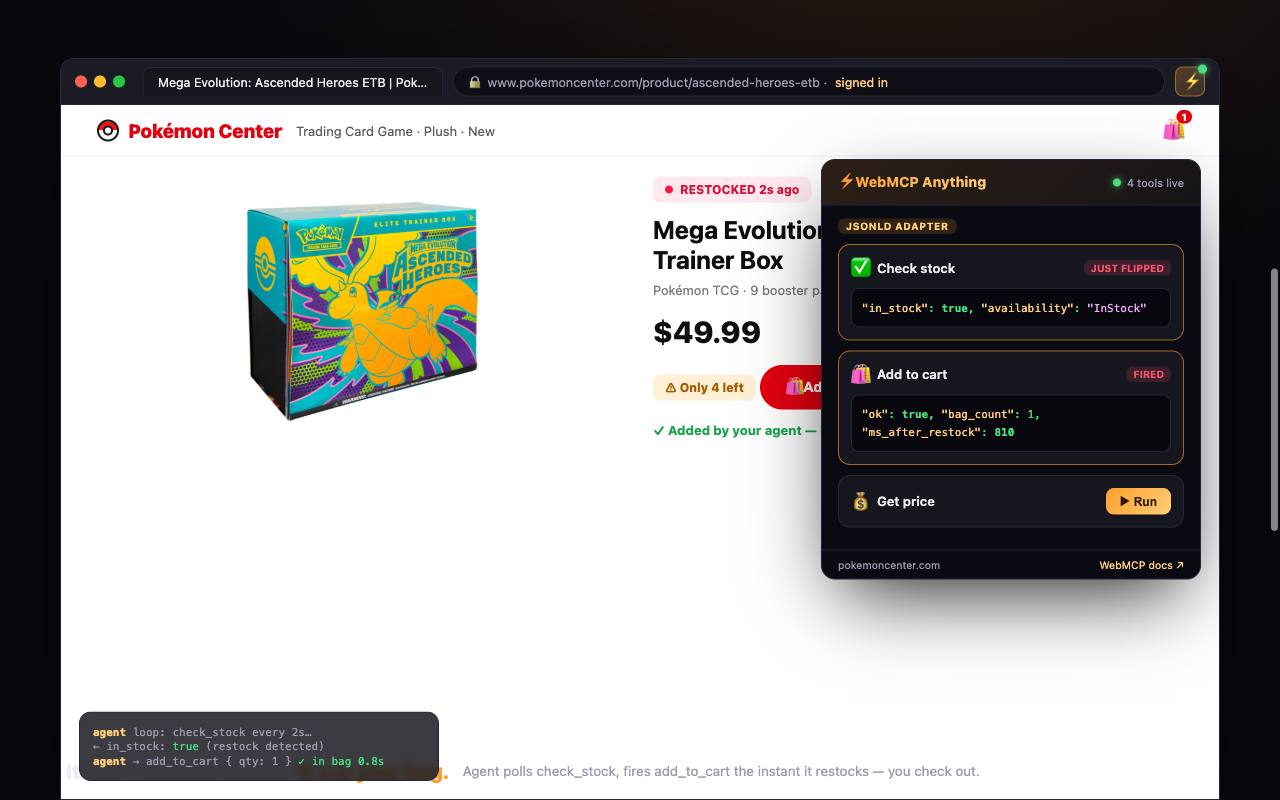
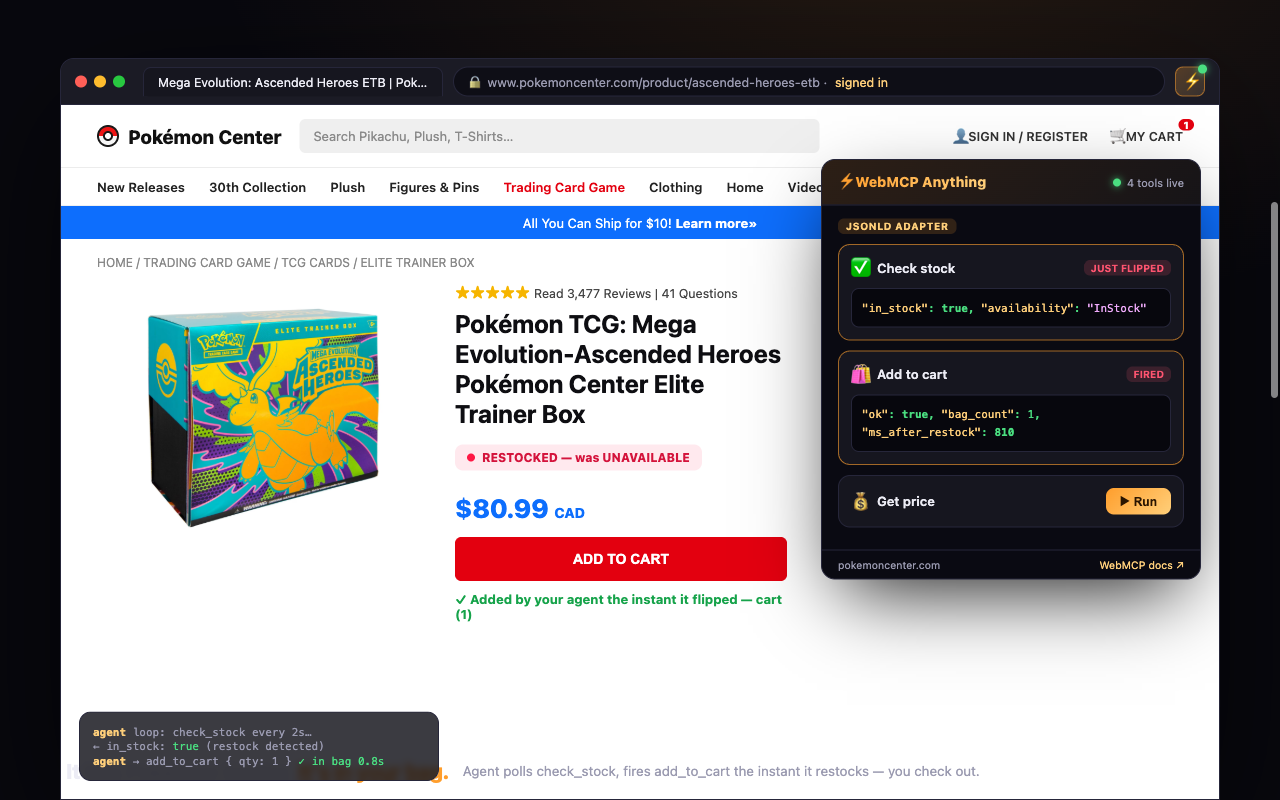
feat(store): real store chrome — Pokémon Center, Walmart, Sam's Club
Rebuilt the three store scenes to faithfully match the actual retailer
pages the owner supplied, with the real product/store pairings:

  2 Pokémon Center — Ascended Heroes ETB, $80.99 CAD, real header (Poké
    Ball + nav + "$10 ship" banner + breadcrumb + 3,477 reviews). Hook:
    page was UNAVAILABLE → agent catches the restock → ADD TO CART.
  3 Walmart — Scarlet & Violet 151 Ultra-Premium Collection, $120.99,
    real chrome (spark, location pill, Departments/Services nav,
    breadcrumb, Pro Seller) → BACK IN STOCK → add_to_cart fired.
  4 Sam's Club — Prismatic Evolutions ETB, real chrome (S mark, location
    pill, departments strip, "In 50+ people's carts", Shipping/Pickup/
    Delivery tiles) → agent in cart first.

Real product photos (owner-supplied AVIF/PNG → img/). Popup still shows
only real tools (check_stock/add_to_cart/get_price); titles/CTAs cleared
of the popup. Hero re-themed to TCG. Dropped sneaker + GPU scenes.

diff --git a/launch/store-assets/scenes.html b/launch/store-assets/scenes.html
@@ -58,6 +58,7 @@
   .pg { padding:26px 36px; color:#16161a; height:100%; background:#fff; }
   .pg .crumb { color:#8a8a8a; font-size:12px; margin-bottom:14px; }
   .pg .row { display:flex; gap:26px; }
+  .pg .row.rowc { padding-right: 396px; } /* clear the popup so titles/CTA stay visible */
   .pg .col { flex:1; }
   .pg h1 { font-size:25px; margin:0 0 8px; color:#0e0e12; line-height:1.2; }
   .pg .by { color:#777; font-size:13px; margin-bottom:16px; }
@@ -77,6 +78,22 @@
   .pc-bar .cart .cb { background:#e3000f; }
   .btn-bag { background:#e3000f; color:#fff; border:none; border-radius:999px; padding:13px 26px; font-weight:800; font-size:14px; margin-top:16px; display:inline-flex; align-items:center; gap:8px; }
   .added { color:#16a34a; font-weight:700; font-size:13px; margin-top:10px; display:flex; align-items:center; gap:6px; }
+  /* Walmart */
+  .wm-bar { background:#0071dc; } .wm-bar .logo{ color:#fff; } .wm-bar .spark{ color:#ffc220; font-size:24px; }
+  .wm-bar .cart{ color:#fff; } .wm-bar .cart .cb{ background:#ffc220; color:#041e42; }
+  .btn-wm { background:#0071dc; color:#fff; border:none; border-radius:999px; padding:13px 30px; font-weight:700; font-size:14px; margin-top:14px; }
+  /* Sam's Club */
+  .sc-bar { background:#0071ce; } .sc-bar .logo{ color:#fff; } .sc-bar .cart{ color:#fff; } .sc-bar .cart .cb{ background:#ffc220; color:#003b6f; }
+  .sc-bar .reorder{ color:#fff; font-size:12.5px; opacity:.95; display:flex; gap:18px; }
+  .smark { width:30px;height:30px;border-radius:7px; background:#fff; color:#0071ce; font-weight:900; font-style:italic; display:grid; place-items:center; font-size:20px; }
+  .sc-strip { display:flex; gap:20px; background:#e9f3fb; color:#0a3d62; font-size:12.5px; padding:8px 36px; margin:0 -36px 16px; font-weight:600; }
+  .btn-sc { background:#0071ce; color:#fff; border:none; border-radius:999px; padding:13px 30px; font-weight:800; font-size:14px; margin-top:6px; }
+  .incarts { color:#0071ce; font-weight:700; font-size:13px; margin-bottom:8px; }
+  .fulfil { display:flex; gap:9px; margin:13px 0 4px; }
+  .ftile { flex:1; border:1px solid #ddd; border-radius:10px; padding:9px 6px; text-align:center; font-size:11px; color:#555; }
+  .ftile.sel { border-color:#0071ce; border-width:2px; color:#0a3d62; }
+  .ftile b{ display:block; color:#111; font-size:12px; margin-bottom:2px; }
+  .rate { color:#777; font-size:12.5px; }
   .pg .price { font-size:30px; font-weight:800; color:#0e0e12; }
   .badge { display:inline-flex; align-items:center; gap:7px; font-weight:800; font-size:12px; padding:6px 12px; border-radius:8px; margin-bottom:12px; }
   .b-live { background:#ffe9ee; color:#d4143c; } .b-live .pulse{width:8px;height:8px;border-radius:50%;background:#ff1744;box-shadow:0 0 0 0 rgba(255,23,68,.6)}
@@ -134,22 +151,28 @@
       <div class="ext-pin">⚡<span class="ping"></span></div>
     </div>
     <div class="page">
-      <div class="pg">
-        <div class="store-bar pc-bar">
-          <div class="logo"><span class="pokeball"></span>Pokémon Center</div>
-          <div class="nav">Trading Card Game · Plush · New</div>
-          <div class="cart">🛍<span class="cb">1</span></div>
+      <div class="pg" style="padding-top:0">
+        <div style="display:flex;align-items:center;gap:18px;padding:14px 36px;margin:0 -36px;border-bottom:1px solid #ececec;background:#fff">
+          <div style="display:flex;align-items:center;gap:9px;font-weight:800;font-size:19px;color:#111"><span class="pokeball"></span>Pokémon Center</div>
+          <div style="flex:1;max-width:520px;background:#efefef;border-radius:6px;height:34px;display:flex;align-items:center;padding:0 14px;color:#8a8a8a;font-size:13px">Search Pikachu, Plush, T-Shirts…</div>
+          <div style="margin-left:auto;display:flex;align-items:center;gap:22px;color:#333;font-size:12.5px;font-weight:600">
+            <span>👤 SIGN IN / REGISTER</span><span style="position:relative">🛒 MY CART<span style="position:absolute;top:-9px;right:-11px;background:#e3000f;color:#fff;font-size:10px;font-weight:800;border-radius:999px;padding:0 5px">1</span></span>
+          </div>
         </div>
-        <div class="row">
-          <div class="col"><img class="imgp" src="img/pokemon.png" alt="Pokémon ETB" /></div>
+        <div style="display:flex;gap:24px;font-size:13px;font-weight:600;color:#222;padding:11px 36px;margin:0 -36px;border-bottom:1px solid #f0f0f0">
+          <span>New Releases</span><span>30th Collection</span><span>Plush</span><span>Figures &amp; Pins</span><span style="color:#e3000f">Trading Card Game</span><span>Clothing</span><span>Home</span><span>Video Game</span><span>LEGO® Pokémon™</span>
+        </div>
+        <div style="background:#0d6efd;color:#fff;text-align:center;font-size:13px;padding:9px;margin:0 -36px 16px">All You Can Ship for $10! <b>Learn more»</b></div>
+        <div style="color:#888;font-size:12px;margin-bottom:14px">HOME / TRADING CARD GAME / TCG CARDS / ELITE TRAINER BOX</div>
+        <div class="row rowc">
+          <div class="col"><img class="imgp" src="img/pokemon.png" alt="Ascended Heroes ETB" /></div>
           <div class="col">
-            <div class="badge b-live"><span class="pulse"></span>RESTOCKED 2s ago</div>
-            <h1>Mega Evolution: Ascended Heroes Elite Trainer Box</h1>
-            <div class="by">Pokémon TCG · 9 booster packs + promo · Limit 1 per customer</div>
-            <div class="price">$49.99</div>
-            <div class="badge b-low" style="margin-top:14px">⚠ Only 4 left</div>
-            <button class="btn-bag">🛍 Add to Bag</button>
-            <div class="added">✓ Added by your agent — bag (1) · ready to check out</div>
+            <div style="color:#f6b500;font-size:15px">★★★★★ <span style="color:#444;font-size:12.5px">Read 3,477 Reviews | 41 Questions</span></div>
+            <h1 style="margin-top:8px">Pokémon TCG: Mega Evolution-Ascended Heroes Pokémon Center Elite Trainer Box</h1>
+            <div class="badge b-live" style="margin-top:8px"><span class="pulse"></span>RESTOCKED — was UNAVAILABLE</div>
+            <div style="color:#0d6efd;font-weight:800;font-size:26px;margin-top:10px">$80.99 <span style="font-size:14px">CAD</span></div>
+            <button style="background:#e3000f;color:#fff;border:none;border-radius:6px;padding:14px 0;font-weight:800;font-size:14px;width:100%;max-width:340px;margin-top:14px;cursor:pointer">ADD TO CART</button>
+            <div class="added">✓ Added by your agent the instant it flipped — cart (1)</div>
           </div>
         </div>
       </div>
@@ -179,26 +202,38 @@
   <div class="cap"><div class="big">It hits Pokémon Center. <span class="am">It's in your bag.</span></div><div class="sm">Agent polls check_stock, fires add_to_cart the instant it restocks — you check out.</div></div>
 </div>
 
-<!-- ============ 3) GPU / CONSOLE RESTOCK (breadth) ============ -->
-<div class="shot" id="s4">
+<!-- ============ 3) WALMART ============ -->
+<div class="shot" id="s3">
   <div class="browser">
     <div class="chrome">
       <div class="dots"><i class="r"></i><i class="y"></i><i class="g"></i></div>
-      <div class="tab">RTX 5090 Founders — Restock</div>
-      <div class="omni"><span class="lock">🔒</span> shop.example/rtx-5090-founders · <span class="li">signed in</span> · <span style="color:var(--red)">blocks bots</span></div>
+      <div class="tab">Prismatic Evolutions Elite Trainer Box - Walmart.com</div>
+      <div class="omni"><span class="lock">🔒</span> www.walmart.com/ip/pokemon-prismatic-evolutions-etb · <span class="li">signed in</span></div>
       <div class="ext-pin">⚡<span class="ping"></span></div>
     </div>
     <div class="page">
-      <div class="pg">
-        <div class="crumb">Components / Graphics Cards</div>
-        <div class="row">
-          <div class="col"><div class="img" style="background:linear-gradient(135deg,#1f2937,#0b3d2e); color:#7CFFb5">🖥</div></div>
+      <div class="pg" style="padding-top:0">
+        <div style="display:flex;align-items:center;gap:14px;padding:11px 24px;margin:0 -36px;background:#0071dc">
+          <span style="color:#ffc220;font-size:26px;font-weight:900">✸</span>
+          <div style="background:#004f9a;border-radius:22px;padding:5px 14px;color:#fff;font-size:11px;line-height:1.2;max-width:230px"><b>How do you want your items?</b><span style="display:block;opacity:.85;font-size:10.5px">Edmonton, T5T 9Z0 · W. EDMONTON…</span></div>
+          <div style="flex:1;background:#fff;border-radius:22px;height:36px;display:flex;align-items:center;padding:0 16px;color:#8a8a8a;font-size:13px">Search everything at Walmart online and in store</div>
+          <div style="display:flex;align-items:center;gap:18px;color:#fff;font-size:12px">
+            <span>🌐 English</span><span>♡ Reorder</span><span>👤 Sign In</span>
+            <span style="position:relative">🛒 $0.00<span style="position:absolute;top:-9px;right:-9px;background:#ffc220;color:#041e42;font-size:10px;font-weight:800;border-radius:999px;padding:0 5px">1</span></span>
+          </div>
+        </div>
+        <div style="display:flex;gap:22px;font-size:13px;color:#16161a;padding:10px 36px;margin:0 -36px 16px;background:#e8f1fc;font-weight:600"><span>☰ Departments</span><span>Services</span><span style="color:#999">|</span><span>Flyer</span><span>Grocery</span><span>Get It Fast</span><span>Everyday Low Prices</span><span>Electronics</span><span style="margin-left:auto">More ⌄</span></div>
+        <div style="color:#0071dc;font-size:12.5px;margin-bottom:14px">Toys / Trading Cards / Pokemon Cards / Pokemon Booster &amp; Blister Packs</div>
+        <div class="row rowc">
+          <div class="col"><img class="imgp" src="img/walmart.png" alt="151 Ultra-Premium Collection" /></div>
           <div class="col">
-            <div class="badge b-live"><span class="pulse"></span>BACK IN STOCK</div>
-            <h1>GeForce RTX 5090 Founders Edition</h1>
-            <div class="by">Sold out everywhere · bot-protected checkout</div>
-            <div class="price">$1,999</div>
-            <div class="badge b-low" style="margin-top:14px">⚠ Selling out — 7 left</div>
+            <div style="color:#666;font-size:13px">Pokémon &nbsp; <span style="color:#f6b500">★★★★★</span> <span style="color:#0071dc">4.6 (657)</span></div>
+            <h1 style="margin-top:6px">Pokémon TCG: Scarlet &amp; Violet—151 Ultra-Premium Collection</h1>
+            <div class="badge b-live" style="margin-top:8px"><span class="pulse"></span>BACK IN STOCK</div>
+            <div style="font-size:28px;font-weight:800;color:#0e0e12;margin-top:10px">$120.99</div>
+            <div style="color:#666;font-size:12px">Price when purchased online · Sold by stricklands distribution inc · ✔ Pro Seller</div>
+            <button style="background:#0071dc;color:#fff;border:none;border-radius:999px;padding:13px 34px;font-weight:700;font-size:15px;margin-top:14px;cursor:pointer">Add to cart</button>
+            <div class="added">✓ Added by your agent — cart (1) · ready to check out</div>
           </div>
         </div>
       </div>
@@ -207,17 +242,91 @@
         <div class="pop-main">
           <div class="atag">jsonld adapter</div>
           <div class="tool hot">
-            <div class="tool-head"><span class="ic">🛒</span><div class="lab">Add to cart</div><span class="live-badge">FIRED</span></div>
-            <div class="result"><span class="k">"ok"</span>: <span class="ok">true</span>, <span class="k">"cart_count"</span>: 1, <span class="k">"ms_after_restock"</span>: <span class="ok">740</span></div>
+            <div class="tool-head"><span class="ic">✅</span><div class="lab">Check stock</div><span class="live-badge">JUST FLIPPED</span></div>
+            <div class="result"><span class="k">"in_stock"</span>: <span class="ok">true</span>, <span class="k">"availability"</span>: <span class="s">"InStock"</span></div>
           </div>
-          <div class="tool"><div class="tool-head"><span class="ic">✅</span><div class="lab">Check stock</div><button class="run">▶ Run</button></div><div class="desc">in_stock: true</div></div>
+          <div class="tool hot">
+            <div class="tool-head"><span class="ic">🛒</span><div class="lab">Add to cart</div><span class="live-badge">FIRED</span></div>
+            <div class="result"><span class="k">"ok"</span>: <span class="ok">true</span>, <span class="k">"cart_count"</span>: 1, <span class="k">"ms_after_restock"</span>: <span class="ok">760</span></div>
+          </div>
           <div class="tool"><div class="tool-head"><span class="ic">💰</span><div class="lab">Get price</div><button class="run">▶ Run</button></div></div>
         </div>
-        <div class="pop-foot"><span>shop.example</span><a>WebMCP docs ↗</a></div>
+        <div class="pop-foot"><span>walmart.com</span><a>WebMCP docs ↗</a></div>
+      </div>
+      <div class="agentbar">
+        <div class="ln"><span class="who">agent</span> <span class="t">loop: check_stock every 2s…</span></div>
+        <div class="ln"><span class="t">← in_stock: </span><span class="ok">true</span> <span class="t">(restock detected)</span></div>
+        <div class="ln"><span class="who">agent</span> <span class="t">→ add_to_cart { qty: 1 } </span><span class="ok">✓ in cart 0.8s</span></div>
       </div>
     </div>
   </div>
-  <div class="cap"><div class="big">Sold out everywhere? <span class="am">Your agent gets the restock.</span></div><div class="sm">On the bot-blocked sites no other agent can even reach — because it's your browser.</div></div>
+  <div class="cap"><div class="big">Restocks at Walmart? <span class="am">In your cart in under a second.</span></div><div class="sm">Your agent watches the listing and fires add_to_cart the instant it flips.</div></div>
+</div>
+
+<!-- ============ 4) SAM'S CLUB ============ -->
+<div class="shot" id="s4">
+  <div class="browser">
+    <div class="chrome">
+      <div class="dots"><i class="r"></i><i class="y"></i><i class="g"></i></div>
+      <div class="tab">151 Ultra-Premium Collection – Sam's Club</div>
+      <div class="omni"><span class="lock">🔒</span> www.samsclub.com/p/151-ultra-premium-collection · <span class="li">signed in</span></div>
+      <div class="ext-pin">⚡<span class="ping"></span></div>
+    </div>
+    <div class="page">
+      <div class="pg" style="padding-top:0">
+        <div style="display:flex;align-items:center;gap:14px;padding:11px 24px;margin:0 -36px;background:#0071ce">
+          <span style="width:32px;height:32px;border-radius:7px;background:#fff;color:#0071ce;font-weight:900;font-style:italic;display:grid;place-items:center;font-size:21px">S</span>
+          <div style="background:#005ba8;border-radius:22px;padding:5px 14px;color:#fff;font-size:11px;line-height:1.2;max-width:230px"><b>How do you want your items?</b><span style="display:block;opacity:.85;font-size:10.5px">Dallas, 75231 · Timber Creek Crossing…</span></div>
+          <div style="flex:1;background:#fff;border-radius:22px;height:36px;display:flex;align-items:center;padding:0 16px;color:#8a8a8a;font-size:13px">Search</div>
+          <div style="display:flex;align-items:center;gap:18px;color:#fff;font-size:12px">
+            <span>⭳ Reorder</span><span>＄ Savings</span><span>👤 Account</span>
+            <span style="position:relative">🛒 $0.00<span style="position:absolute;top:-9px;right:-9px;background:#ffc220;color:#003b6f;font-size:10px;font-weight:800;border-radius:999px;padding:0 5px">1</span></span>
+          </div>
+        </div>
+        <div style="display:flex;gap:20px;font-size:12.5px;color:#0a3d62;padding:9px 36px;margin:0 -36px 16px;background:#e9f3fb;font-weight:600"><span>Departments ⌄</span><span>Services ⌄</span><span>Same Day Delivery</span><span>Tournament Time</span><span>Sam's Cash Promotions</span><span style="margin-left:auto">More ⌄</span></div>
+        <div class="row rowc">
+          <div class="col"><img class="imgp" src="img/samsclub.png" alt="Prismatic Evolutions ETB" /></div>
+          <div class="col">
+            <div style="color:#0071ce;font-weight:700;font-size:13px;margin-bottom:6px">In 50+ people's carts</div>
+            <h1>Pokémon TCG: Prismatic Evolutions Elite Trainer Box</h1>
+            <div class="rate" style="margin-top:4px"><span style="color:#f6b500">★★★★★</span> 4.8 · 28 ratings · Item # 990454061</div>
+            <div style="font-size:28px;font-weight:800;color:#0e0e12;margin-top:8px">$49.98</div>
+            <div style="color:#666;font-size:11.5px">Prices may vary in club and online</div>
+            <div class="badge b-low" style="margin-top:8px">⚠ Low in stock</div>
+            <div class="fulfil">
+              <div class="ftile">🚚<b>Shipping</b>Out of stock</div>
+              <div class="ftile sel">🚗<b>Pickup</b>As soon as today</div>
+              <div class="ftile">📦<b>Delivery</b>As soon as today</div>
+            </div>
+            <button style="background:#0071ce;color:#fff;border:none;border-radius:999px;padding:13px 34px;font-weight:800;font-size:14px;cursor:pointer">Add to Cart</button>
+            <div class="added">✓ Added by your agent — cart (1) · ready to check out</div>
+          </div>
+        </div>
+      </div>
+      <div class="popup">
+        <div class="pop-head"><div class="pop-logo">⚡ WebMCP Anything</div><div class="pop-status"><span class="dot"></span>4 tools live</div></div>
+        <div class="pop-main">
+          <div class="atag">jsonld adapter</div>
+          <div class="tool hot">
+            <div class="tool-head"><span class="ic">✅</span><div class="lab">Check stock</div><span class="live-badge">JUST FLIPPED</span></div>
+            <div class="result"><span class="k">"in_stock"</span>: <span class="ok">true</span>, <span class="k">"fulfillment"</span>: <span class="s">"pickup"</span></div>
+          </div>
+          <div class="tool hot">
+            <div class="tool-head"><span class="ic">🛒</span><div class="lab">Add to cart</div><span class="live-badge">FIRED</span></div>
+            <div class="result"><span class="k">"ok"</span>: <span class="ok">true</span>, <span class="k">"cart_count"</span>: 1, <span class="k">"ms_after_restock"</span>: <span class="ok">690</span></div>
+          </div>
+          <div class="tool"><div class="tool-head"><span class="ic">💰</span><div class="lab">Get price</div><button class="run">▶ Run</button></div></div>
+        </div>
+        <div class="pop-foot"><span>samsclub.com</span><a>WebMCP docs ↗</a></div>
+      </div>
+      <div class="agentbar">
+        <div class="ln"><span class="who">agent</span> <span class="t">loop: check_stock every 2s…</span></div>
+        <div class="ln"><span class="t">← in_stock: </span><span class="ok">true</span> <span class="t">· pickup available</span></div>
+        <div class="ln"><span class="who">agent</span> <span class="t">→ add_to_cart { qty: 1 } </span><span class="ok">✓ in cart 0.7s</span></div>
+      </div>
+    </div>
+  </div>
+  <div class="cap"><div class="big">Sam's Club drop? <span class="am">Your agent's in line first.</span></div><div class="sm">It's in your cart before "In 50+ people's carts" becomes sold out.</div></div>
 </div>
 
 </body>

diff --git a/launch/chrome-web-store-listing.md b/launch/chrome-web-store-listing.md
@@ -45,9 +45,10 @@ zip → fill the tabs below.
 
 **Screenshots** (1280×800, in `launch/store-assets/` — upload in this order):
 1. `wmcp-store-1-hero.png` — "Let your AI agent cop the drop" (the hook).
-2. `wmcp-store-2-pokemon.png` — booster-box restock: check_stock flips → agent fires add_to_cart in 0.8s.
-3. `wmcp-store-3-sneaker.png` — sneaker launch countdown, size armed, watching stock.
-4. `wmcp-store-4-gpu.png` — GPU restock on a bot-blocked site, add_to_cart fired 740ms after restock.
+2. `wmcp-store-2-pokemoncenter.png` — Pokémon Center: Ascended Heroes ETB flips from UNAVAILABLE → agent adds to cart.
+3. `wmcp-store-3-walmart.png` — Walmart: 151 Ultra-Premium Collection back in stock → agent fires add_to_cart.
+4. `wmcp-store-4-samsclub.png` — Sam's Club: Prismatic Evolutions ETB, "in 50+ carts" → agent in cart first.
+   Real store chrome (Pokémon Center / Walmart / Sam's Club) + real product photos; popup shows only real tools.
    (Source: launch/store-assets/scenes.html — regenerate via a local server + 1280×800 headless shot.)
 
 ---
